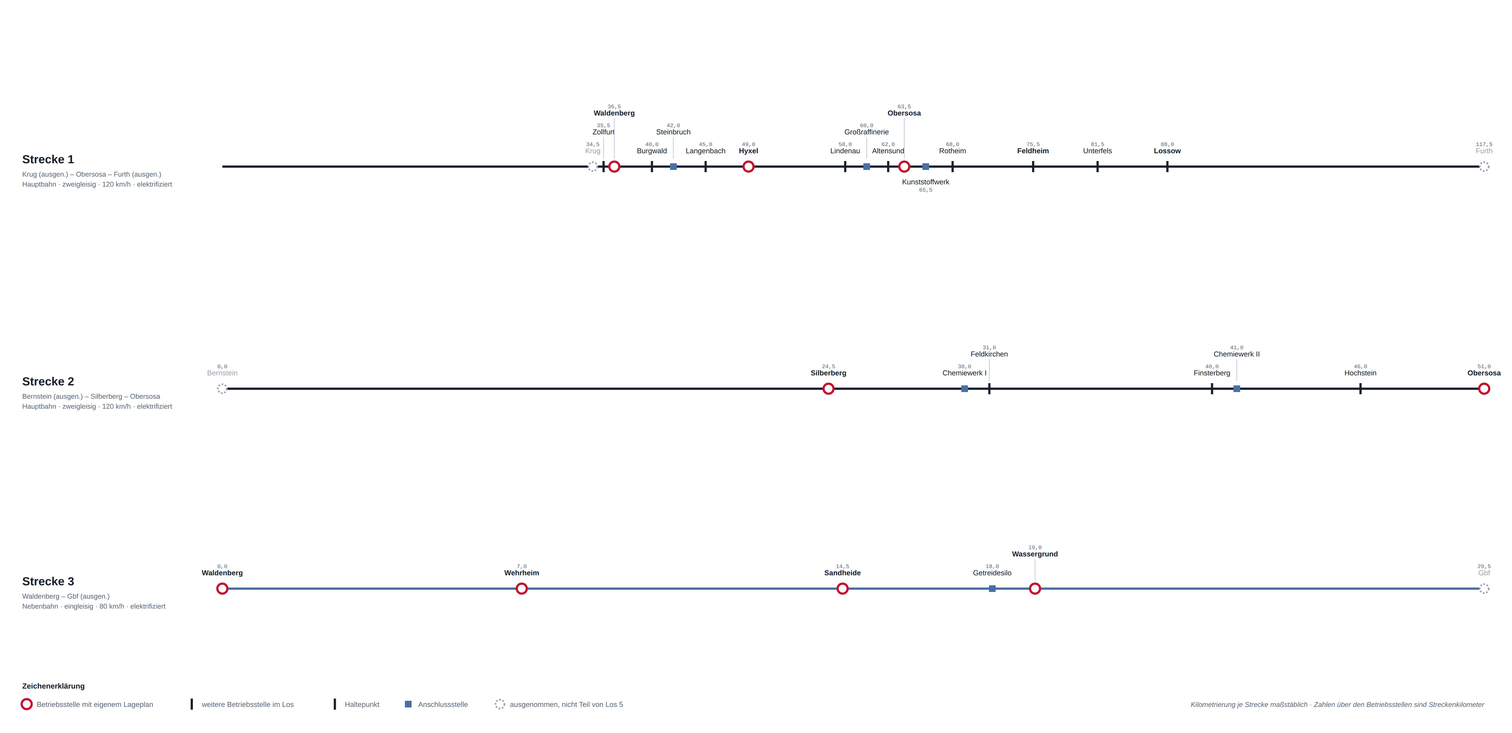
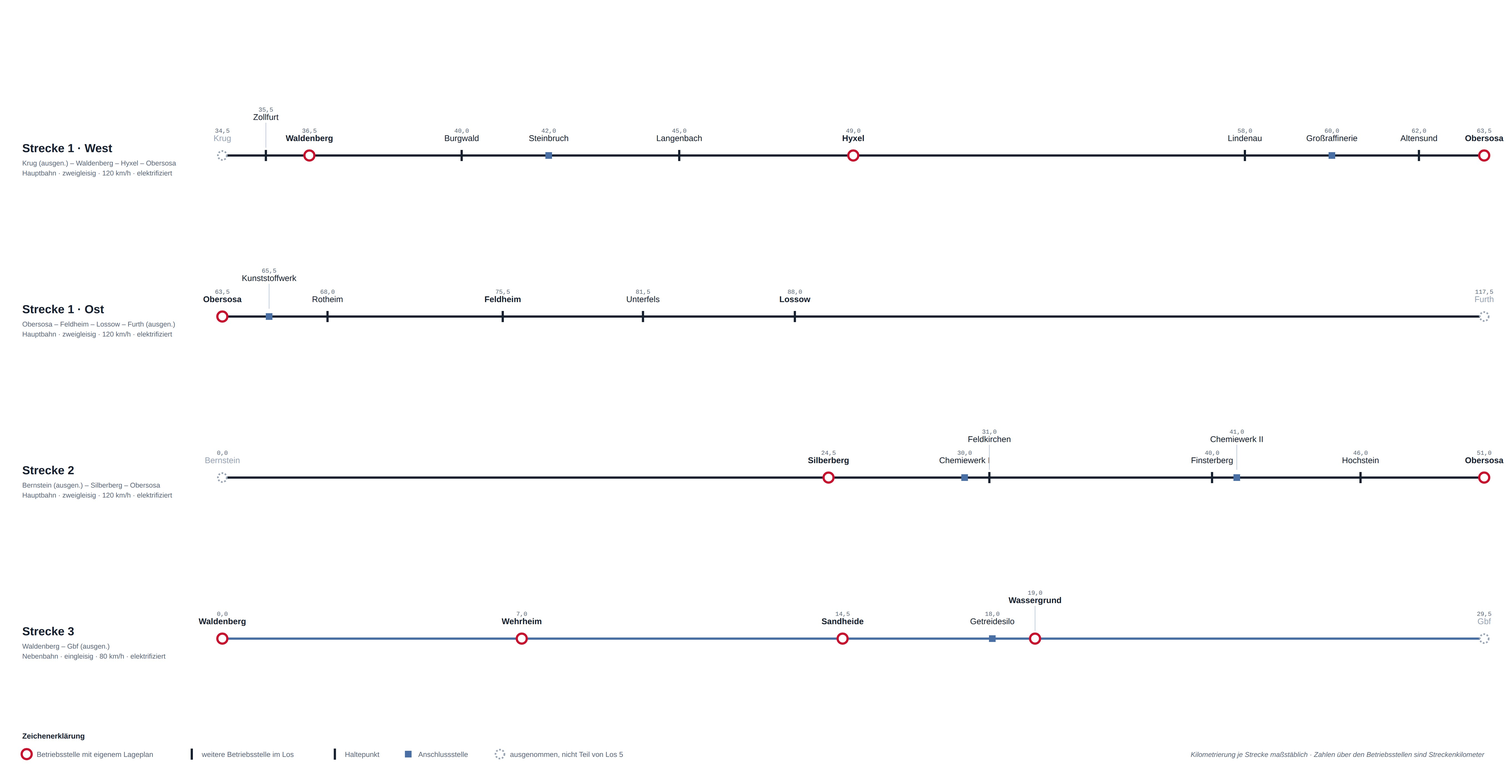
Gleisband: Strecke 1 in zwei Abschnitte geteilt, Beschriftung vergrößert
Alle drei Strecken auf dieselbe Blattbreite zu legen hat Strecke 1
gestaucht: 83 Kilometer gegen 29,5 bei Strecke 3. Die Betriebsstellen
um Krug, Zollfurt und Waldenberg standen dadurch einen Kilometer, also
gut zwanzig Pixel, auseinander.

Strecke 1 ist deshalb an ihrem Knoten Obersosa in einen West- und einen
Ostabschnitt geteilt. Damit verdoppelt sich ihr Maßstab, und jeder
Abschnitt hat eine mit den anderen Strecken vergleichbare Dichte.
Schriftgrößen und Spurabstände sind angehoben, die vertikalen Abstände
dafür zusammengezogen.

Claude-Session: https://claude.ai/code/session_01946ufwtxKyfXxUR2Dq2NLD

diff --git a/gleisband-los5.html b/gleisband-los5.html
@@ -13,130 +13,133 @@
   footer { margin-top:28px; color:#5C6879; font-size:12.5px; }
 </style></head><body><div class="wrap">
 <h1>Gleisband Los 5 – Chemiezentrum</h1>
-<p class="sub">Übersichtsdarstellung der drei Strecken mit Kilometrierung ·
+<p class="sub">Übersichtsdarstellung der drei Strecken mit Kilometrierung · Strecke 1 in zwei Abschnitten ·
 LF 2 Jahresprojekt 2026 „Mitteltrasse", 5. Teilabschnitt</p>
-<div class="scroll"><svg id="gleisband" width="2720" height="1320" viewBox="0 0 2720 1320" xmlns="http://www.w3.org/2000/svg" font-family="Calibri, Arial, sans-serif"><rect width="2720" height="1320" fill="#fff"/><text x="40" y="294" font-size="21" font-weight="700" fill="#16202E">Strecke 1</text>
-<line x1="400" y1="300" x2="2670" y2="300" stroke="#16202E" stroke-width="4"/>
-<text x="40" y="318" font-size="12.5" fill="#5C6879">Krug (ausgen.) – Obersosa – Furth (ausgen.)</text>
-<text x="40" y="336" font-size="12.5" fill="#5C6879">Hauptbahn · zweigleisig · 120 km/h · elektrifiziert</text>
-<circle cx="1066.5" cy="300" r="8" fill="#fff" stroke="#98A4B4" stroke-width="3" stroke-dasharray="3,3"/>
-<text x="1066.5" y="276" font-size="13" font-weight="400" fill="#98A4B4" text-anchor="middle">Krug</text>
-<text x="1066.5" y="263" font-size="10" fill="#5C6879" text-anchor="middle" font-family="Courier New, monospace">34,5</text>
-<line x1="1085.8" y1="290" x2="1085.8" y2="310" stroke="#16202E" stroke-width="4"/>
-<line x1="1085.8" y1="286" x2="1085.8" y2="247" stroke="#C9D2DE" stroke-width="1.5"/>
-<text x="1085.8" y="242" font-size="13" font-weight="400" fill="#16202E" text-anchor="middle">Zollfurt</text>
-<text x="1085.8" y="229" font-size="10" fill="#5C6879" text-anchor="middle" font-family="Courier New, monospace">35,5</text>
-<circle cx="1105.1" cy="300" r="9" fill="#fff" stroke="#C8102E" stroke-width="4"/>
-<line x1="1105.1" y1="286" x2="1105.1" y2="213" stroke="#C9D2DE" stroke-width="1.5"/>
-<text x="1105.1" y="208" font-size="13" font-weight="700" fill="#16202E" text-anchor="middle">Waldenberg</text>
-<text x="1105.1" y="195" font-size="10" fill="#5C6879" text-anchor="middle" font-family="Courier New, monospace">36,5</text>
-<line x1="1172.8" y1="290" x2="1172.8" y2="310" stroke="#16202E" stroke-width="4"/>
-<text x="1172.8" y="276" font-size="13" font-weight="400" fill="#16202E" text-anchor="middle">Burgwald</text>
-<text x="1172.8" y="263" font-size="10" fill="#5C6879" text-anchor="middle" font-family="Courier New, monospace">40,0</text>
-<rect x="1205.4" y="294" width="12" height="12" fill="#4A6FA5"/>
-<line x1="1211.4" y1="286" x2="1211.4" y2="247" stroke="#C9D2DE" stroke-width="1.5"/>
-<text x="1211.4" y="242" font-size="13" font-weight="400" fill="#16202E" text-anchor="middle">Steinbruch</text>
-<text x="1211.4" y="229" font-size="10" fill="#5C6879" text-anchor="middle" font-family="Courier New, monospace">42,0</text>
-<line x1="1269.4" y1="290" x2="1269.4" y2="310" stroke="#16202E" stroke-width="4"/>
-<text x="1269.4" y="276" font-size="13" font-weight="400" fill="#16202E" text-anchor="middle">Langenbach</text>
-<text x="1269.4" y="263" font-size="10" fill="#5C6879" text-anchor="middle" font-family="Courier New, monospace">45,0</text>
-<circle cx="1346.6" cy="300" r="9" fill="#fff" stroke="#C8102E" stroke-width="4"/>
-<text x="1346.6" y="276" font-size="13" font-weight="700" fill="#16202E" text-anchor="middle">Hyxel</text>
-<text x="1346.6" y="263" font-size="10" fill="#5C6879" text-anchor="middle" font-family="Courier New, monospace">49,0</text>
-<line x1="1520.5" y1="290" x2="1520.5" y2="310" stroke="#16202E" stroke-width="4"/>
-<text x="1520.5" y="276" font-size="13" font-weight="400" fill="#16202E" text-anchor="middle">Lindenau</text>
-<text x="1520.5" y="263" font-size="10" fill="#5C6879" text-anchor="middle" font-family="Courier New, monospace">58,0</text>
-<rect x="1553.1" y="294" width="12" height="12" fill="#4A6FA5"/>
-<line x1="1559.1" y1="286" x2="1559.1" y2="247" stroke="#C9D2DE" stroke-width="1.5"/>
-<text x="1559.1" y="242" font-size="13" font-weight="400" fill="#16202E" text-anchor="middle">Großraffinerie</text>
-<text x="1559.1" y="229" font-size="10" fill="#5C6879" text-anchor="middle" font-family="Courier New, monospace">60,0</text>
-<line x1="1597.8" y1="290" x2="1597.8" y2="310" stroke="#16202E" stroke-width="4"/>
-<text x="1597.8" y="276" font-size="13" font-weight="400" fill="#16202E" text-anchor="middle">Altensund</text>
-<text x="1597.8" y="263" font-size="10" fill="#5C6879" text-anchor="middle" font-family="Courier New, monospace">62,0</text>
-<circle cx="1626.8" cy="300" r="9" fill="#fff" stroke="#C8102E" stroke-width="4"/>
-<line x1="1626.8" y1="286" x2="1626.8" y2="213" stroke="#C9D2DE" stroke-width="1.5"/>
-<text x="1626.8" y="208" font-size="13" font-weight="700" fill="#16202E" text-anchor="middle">Obersosa</text>
-<text x="1626.8" y="195" font-size="10" fill="#5C6879" text-anchor="middle" font-family="Courier New, monospace">63,5</text>
-<rect x="1659.4" y="294" width="12" height="12" fill="#4A6FA5"/>
-<text x="1665.4" y="332" font-size="13" font-weight="400" fill="#16202E" text-anchor="middle">Kunststoffwerk</text>
-<text x="1665.4" y="345" font-size="10" fill="#5C6879" text-anchor="middle" font-family="Courier New, monospace">65,5</text>
-<line x1="1713.7" y1="290" x2="1713.7" y2="310" stroke="#16202E" stroke-width="4"/>
-<text x="1713.7" y="276" font-size="13" font-weight="400" fill="#16202E" text-anchor="middle">Rotheim</text>
-<text x="1713.7" y="263" font-size="10" fill="#5C6879" text-anchor="middle" font-family="Courier New, monospace">68,0</text>
-<line x1="1858.6" y1="290" x2="1858.6" y2="310" stroke="#16202E" stroke-width="4"/>
-<text x="1858.6" y="276" font-size="13" font-weight="700" fill="#16202E" text-anchor="middle">Feldheim</text>
-<text x="1858.6" y="263" font-size="10" fill="#5C6879" text-anchor="middle" font-family="Courier New, monospace">75,5</text>
-<line x1="1974.5" y1="290" x2="1974.5" y2="310" stroke="#16202E" stroke-width="4"/>
-<text x="1974.5" y="276" font-size="13" font-weight="400" fill="#16202E" text-anchor="middle">Unterfels</text>
-<text x="1974.5" y="263" font-size="10" fill="#5C6879" text-anchor="middle" font-family="Courier New, monospace">81,5</text>
-<line x1="2100.1" y1="290" x2="2100.1" y2="310" stroke="#16202E" stroke-width="4"/>
-<text x="2100.1" y="276" font-size="13" font-weight="700" fill="#16202E" text-anchor="middle">Lossow</text>
-<text x="2100.1" y="263" font-size="10" fill="#5C6879" text-anchor="middle" font-family="Courier New, monospace">88,0</text>
-<circle cx="2670.0" cy="300" r="8" fill="#fff" stroke="#98A4B4" stroke-width="3" stroke-dasharray="3,3"/>
-<text x="2670.0" y="276" font-size="13" font-weight="400" fill="#98A4B4" text-anchor="middle">Furth</text>
-<text x="2670.0" y="263" font-size="10" fill="#5C6879" text-anchor="middle" font-family="Courier New, monospace">117,5</text><text x="40" y="694" font-size="21" font-weight="700" fill="#16202E">Strecke 2</text>
-<line x1="400" y1="700" x2="2670" y2="700" stroke="#16202E" stroke-width="4"/>
-<text x="40" y="718" font-size="12.5" fill="#5C6879">Bernstein (ausgen.) – Silberberg – Obersosa</text>
-<text x="40" y="736" font-size="12.5" fill="#5C6879">Hauptbahn · zweigleisig · 120 km/h · elektrifiziert</text>
-<circle cx="400.0" cy="700" r="8" fill="#fff" stroke="#98A4B4" stroke-width="3" stroke-dasharray="3,3"/>
-<text x="400.0" y="676" font-size="13" font-weight="400" fill="#98A4B4" text-anchor="middle">Bernstein</text>
-<text x="400.0" y="663" font-size="10" fill="#5C6879" text-anchor="middle" font-family="Courier New, monospace">0,0</text>
-<circle cx="1490.5" cy="700" r="9" fill="#fff" stroke="#C8102E" stroke-width="4"/>
-<text x="1490.5" y="676" font-size="13" font-weight="700" fill="#16202E" text-anchor="middle">Silberberg</text>
-<text x="1490.5" y="663" font-size="10" fill="#5C6879" text-anchor="middle" font-family="Courier New, monospace">24,5</text>
-<rect x="1729.3" y="694" width="12" height="12" fill="#4A6FA5"/>
-<text x="1735.3" y="676" font-size="13" font-weight="400" fill="#16202E" text-anchor="middle">Chemiewerk I</text>
-<text x="1735.3" y="663" font-size="10" fill="#5C6879" text-anchor="middle" font-family="Courier New, monospace">30,0</text>
-<line x1="1779.8" y1="690" x2="1779.8" y2="710" stroke="#16202E" stroke-width="4"/>
-<line x1="1779.8" y1="686" x2="1779.8" y2="647" stroke="#C9D2DE" stroke-width="1.5"/>
-<text x="1779.8" y="642" font-size="13" font-weight="400" fill="#16202E" text-anchor="middle">Feldkirchen</text>
-<text x="1779.8" y="629" font-size="10" fill="#5C6879" text-anchor="middle" font-family="Courier New, monospace">31,0</text>
-<line x1="2180.4" y1="690" x2="2180.4" y2="710" stroke="#16202E" stroke-width="4"/>
-<text x="2180.4" y="676" font-size="13" font-weight="400" fill="#16202E" text-anchor="middle">Finsterberg</text>
-<text x="2180.4" y="663" font-size="10" fill="#5C6879" text-anchor="middle" font-family="Courier New, monospace">40,0</text>
-<rect x="2218.9" y="694" width="12" height="12" fill="#4A6FA5"/>
-<line x1="2224.9" y1="686" x2="2224.9" y2="647" stroke="#C9D2DE" stroke-width="1.5"/>
-<text x="2224.9" y="642" font-size="13" font-weight="400" fill="#16202E" text-anchor="middle">Chemiewerk II</text>
-<text x="2224.9" y="629" font-size="10" fill="#5C6879" text-anchor="middle" font-family="Courier New, monospace">41,0</text>
-<line x1="2447.5" y1="690" x2="2447.5" y2="710" stroke="#16202E" stroke-width="4"/>
-<text x="2447.5" y="676" font-size="13" font-weight="400" fill="#16202E" text-anchor="middle">Hochstein</text>
-<text x="2447.5" y="663" font-size="10" fill="#5C6879" text-anchor="middle" font-family="Courier New, monospace">46,0</text>
-<circle cx="2670.0" cy="700" r="9" fill="#fff" stroke="#C8102E" stroke-width="4"/>
-<text x="2670.0" y="676" font-size="13" font-weight="700" fill="#16202E" text-anchor="middle">Obersosa</text>
-<text x="2670.0" y="663" font-size="10" fill="#5C6879" text-anchor="middle" font-family="Courier New, monospace">51,0</text><text x="40" y="1054" font-size="21" font-weight="700" fill="#16202E">Strecke 3</text>
-<line x1="400" y1="1060" x2="2670" y2="1060" stroke="#4A6FA5" stroke-width="4"/>
-<text x="40" y="1078" font-size="12.5" fill="#5C6879">Waldenberg – Gbf (ausgen.)</text>
-<text x="40" y="1096" font-size="12.5" fill="#5C6879">Nebenbahn · eingleisig · 80 km/h · elektrifiziert</text>
-<circle cx="400.0" cy="1060" r="9" fill="#fff" stroke="#C8102E" stroke-width="4"/>
-<text x="400.0" y="1036" font-size="13" font-weight="700" fill="#16202E" text-anchor="middle">Waldenberg</text>
-<text x="400.0" y="1023" font-size="10" fill="#5C6879" text-anchor="middle" font-family="Courier New, monospace">0,0</text>
-<circle cx="938.6" cy="1060" r="9" fill="#fff" stroke="#C8102E" stroke-width="4"/>
-<text x="938.6" y="1036" font-size="13" font-weight="700" fill="#16202E" text-anchor="middle">Wehrheim</text>
-<text x="938.6" y="1023" font-size="10" fill="#5C6879" text-anchor="middle" font-family="Courier New, monospace">7,0</text>
-<circle cx="1515.8" cy="1060" r="9" fill="#fff" stroke="#C8102E" stroke-width="4"/>
-<text x="1515.8" y="1036" font-size="13" font-weight="700" fill="#16202E" text-anchor="middle">Sandheide</text>
-<text x="1515.8" y="1023" font-size="10" fill="#5C6879" text-anchor="middle" font-family="Courier New, monospace">14,5</text>
-<rect x="1779.1" y="1054" width="12" height="12" fill="#4A6FA5"/>
-<text x="1785.1" y="1036" font-size="13" font-weight="400" fill="#16202E" text-anchor="middle">Getreidesilo</text>
-<text x="1785.1" y="1023" font-size="10" fill="#5C6879" text-anchor="middle" font-family="Courier New, monospace">18,0</text>
-<circle cx="1862.0" cy="1060" r="9" fill="#fff" stroke="#C8102E" stroke-width="4"/>
-<line x1="1862.0" y1="1046" x2="1862.0" y2="1007" stroke="#C9D2DE" stroke-width="1.5"/>
-<text x="1862.0" y="1002" font-size="13" font-weight="700" fill="#16202E" text-anchor="middle">Wassergrund</text>
-<text x="1862.0" y="989" font-size="10" fill="#5C6879" text-anchor="middle" font-family="Courier New, monospace">19,0</text>
-<circle cx="2670.0" cy="1060" r="8" fill="#fff" stroke="#98A4B4" stroke-width="3" stroke-dasharray="3,3"/>
-<text x="2670.0" y="1036" font-size="13" font-weight="400" fill="#98A4B4" text-anchor="middle">Gbf</text>
-<text x="2670.0" y="1023" font-size="10" fill="#5C6879" text-anchor="middle" font-family="Courier New, monospace">29,5</text><text x="40" y="1240" font-size="13.5" font-weight="700" fill="#16202E">Zeichenerklärung</text>
-<circle cx="48" cy="1268" r="9" fill="#fff" stroke="#C8102E" stroke-width="4"/>
-<text x="66" y="1273" font-size="13" fill="#5C6879">Betriebsstelle mit eigenem Lageplan</text>
-<line x1="345.0" y1="1258" x2="345.0" y2="1278" stroke="#16202E" stroke-width="4"/>
-<text x="363.0" y="1273" font-size="13" fill="#5C6879">weitere Betriebsstelle im Los</text>
-<line x1="602.4" y1="1258" x2="602.4" y2="1278" stroke="#16202E" stroke-width="4"/>
-<text x="620.4" y="1273" font-size="13" fill="#5C6879">Haltepunkt</text>
-<rect x="728.4" y="1262" width="12" height="12" fill="#4A6FA5"/>
-<text x="752.4" y="1273" font-size="13" fill="#5C6879">Anschlussstelle</text>
-<circle cx="899.4" cy="1268" r="8" fill="#fff" stroke="#98A4B4" stroke-width="3" stroke-dasharray="3,3"/>
-<text x="917.4" y="1273" font-size="13" fill="#5C6879">ausgenommen, nicht Teil von Los 5</text>
-<text x="2670" y="1273" font-size="12.5" fill="#5C6879" font-style="italic" text-anchor="end">Kilometrierung je Strecke maßstäblich · Zahlen über den Betriebsstellen sind Streckenkilometer</text></svg></div>
+<div class="scroll"><svg id="gleisband" width="2720" height="1410" viewBox="0 0 2720 1410" xmlns="http://www.w3.org/2000/svg" font-family="Calibri, Arial, sans-serif"><rect width="2720" height="1410" fill="#fff"/><text x="40" y="274" font-size="21" font-weight="700" fill="#16202E">Strecke 1 · West</text>
+<line x1="400" y1="280" x2="2670" y2="280" stroke="#16202E" stroke-width="4"/>
+<text x="40" y="298" font-size="12.5" fill="#5C6879">Krug (ausgen.) – Waldenberg – Hyxel – Obersosa</text>
+<text x="40" y="316" font-size="12.5" fill="#5C6879">Hauptbahn · zweigleisig · 120 km/h · elektrifiziert</text>
+<circle cx="400.0" cy="280" r="8" fill="#fff" stroke="#98A4B4" stroke-width="3" stroke-dasharray="3,3"/>
+<text x="400.0" y="254" font-size="15" font-weight="400" fill="#98A4B4" text-anchor="middle">Krug</text>
+<text x="400.0" y="239" font-size="11" fill="#5C6879" text-anchor="middle" font-family="Courier New, monospace">34,5</text>
+<line x1="478.3" y1="270" x2="478.3" y2="290" stroke="#16202E" stroke-width="4"/>
+<line x1="478.3" y1="266" x2="478.3" y2="221" stroke="#C9D2DE" stroke-width="1.5"/>
+<text x="478.3" y="216" font-size="15" font-weight="400" fill="#16202E" text-anchor="middle">Zollfurt</text>
+<text x="478.3" y="201" font-size="11" fill="#5C6879" text-anchor="middle" font-family="Courier New, monospace">35,5</text>
+<circle cx="556.6" cy="280" r="9" fill="#fff" stroke="#C8102E" stroke-width="4"/>
+<text x="556.6" y="254" font-size="15" font-weight="700" fill="#16202E" text-anchor="middle">Waldenberg</text>
+<text x="556.6" y="239" font-size="11" fill="#5C6879" text-anchor="middle" font-family="Courier New, monospace">36,5</text>
+<line x1="830.5" y1="270" x2="830.5" y2="290" stroke="#16202E" stroke-width="4"/>
+<text x="830.5" y="254" font-size="15" font-weight="400" fill="#16202E" text-anchor="middle">Burgwald</text>
+<text x="830.5" y="239" font-size="11" fill="#5C6879" text-anchor="middle" font-family="Courier New, monospace">40,0</text>
+<rect x="981.1" y="274" width="12" height="12" fill="#4A6FA5"/>
+<text x="987.1" y="254" font-size="15" font-weight="400" fill="#16202E" text-anchor="middle">Steinbruch</text>
+<text x="987.1" y="239" font-size="11" fill="#5C6879" text-anchor="middle" font-family="Courier New, monospace">42,0</text>
+<line x1="1221.9" y1="270" x2="1221.9" y2="290" stroke="#16202E" stroke-width="4"/>
+<text x="1221.9" y="254" font-size="15" font-weight="400" fill="#16202E" text-anchor="middle">Langenbach</text>
+<text x="1221.9" y="239" font-size="11" fill="#5C6879" text-anchor="middle" font-family="Courier New, monospace">45,0</text>
+<circle cx="1535.0" cy="280" r="9" fill="#fff" stroke="#C8102E" stroke-width="4"/>
+<text x="1535.0" y="254" font-size="15" font-weight="700" fill="#16202E" text-anchor="middle">Hyxel</text>
+<text x="1535.0" y="239" font-size="11" fill="#5C6879" text-anchor="middle" font-family="Courier New, monospace">49,0</text>
+<line x1="2239.5" y1="270" x2="2239.5" y2="290" stroke="#16202E" stroke-width="4"/>
+<text x="2239.5" y="254" font-size="15" font-weight="400" fill="#16202E" text-anchor="middle">Lindenau</text>
+<text x="2239.5" y="239" font-size="11" fill="#5C6879" text-anchor="middle" font-family="Courier New, monospace">58,0</text>
+<rect x="2390.0" y="274" width="12" height="12" fill="#4A6FA5"/>
+<text x="2396.0" y="254" font-size="15" font-weight="400" fill="#16202E" text-anchor="middle">Großraffinerie</text>
+<text x="2396.0" y="239" font-size="11" fill="#5C6879" text-anchor="middle" font-family="Courier New, monospace">60,0</text>
+<line x1="2552.6" y1="270" x2="2552.6" y2="290" stroke="#16202E" stroke-width="4"/>
+<text x="2552.6" y="254" font-size="15" font-weight="400" fill="#16202E" text-anchor="middle">Altensund</text>
+<text x="2552.6" y="239" font-size="11" fill="#5C6879" text-anchor="middle" font-family="Courier New, monospace">62,0</text>
+<circle cx="2670.0" cy="280" r="9" fill="#fff" stroke="#C8102E" stroke-width="4"/>
+<text x="2670.0" y="254" font-size="15" font-weight="700" fill="#16202E" text-anchor="middle">Obersosa</text>
+<text x="2670.0" y="239" font-size="11" fill="#5C6879" text-anchor="middle" font-family="Courier New, monospace">63,5</text><text x="40" y="564" font-size="21" font-weight="700" fill="#16202E">Strecke 1 · Ost</text>
+<line x1="400" y1="570" x2="2670" y2="570" stroke="#16202E" stroke-width="4"/>
+<text x="40" y="588" font-size="12.5" fill="#5C6879">Obersosa – Feldheim – Lossow – Furth (ausgen.)</text>
+<text x="40" y="606" font-size="12.5" fill="#5C6879">Hauptbahn · zweigleisig · 120 km/h · elektrifiziert</text>
+<circle cx="400.0" cy="570" r="9" fill="#fff" stroke="#C8102E" stroke-width="4"/>
+<text x="400.0" y="544" font-size="15" font-weight="700" fill="#16202E" text-anchor="middle">Obersosa</text>
+<text x="400.0" y="529" font-size="11" fill="#5C6879" text-anchor="middle" font-family="Courier New, monospace">63,5</text>
+<rect x="478.1" y="564" width="12" height="12" fill="#4A6FA5"/>
+<line x1="484.1" y1="556" x2="484.1" y2="511" stroke="#C9D2DE" stroke-width="1.5"/>
+<text x="484.1" y="506" font-size="15" font-weight="400" fill="#16202E" text-anchor="middle">Kunststoffwerk</text>
+<text x="484.1" y="491" font-size="11" fill="#5C6879" text-anchor="middle" font-family="Courier New, monospace">65,5</text>
+<line x1="589.2" y1="560" x2="589.2" y2="580" stroke="#16202E" stroke-width="4"/>
+<text x="589.2" y="544" font-size="15" font-weight="400" fill="#16202E" text-anchor="middle">Rotheim</text>
+<text x="589.2" y="529" font-size="11" fill="#5C6879" text-anchor="middle" font-family="Courier New, monospace">68,0</text>
+<line x1="904.4" y1="560" x2="904.4" y2="580" stroke="#16202E" stroke-width="4"/>
+<text x="904.4" y="544" font-size="15" font-weight="700" fill="#16202E" text-anchor="middle">Feldheim</text>
+<text x="904.4" y="529" font-size="11" fill="#5C6879" text-anchor="middle" font-family="Courier New, monospace">75,5</text>
+<line x1="1156.7" y1="560" x2="1156.7" y2="580" stroke="#16202E" stroke-width="4"/>
+<text x="1156.7" y="544" font-size="15" font-weight="400" fill="#16202E" text-anchor="middle">Unterfels</text>
+<text x="1156.7" y="529" font-size="11" fill="#5C6879" text-anchor="middle" font-family="Courier New, monospace">81,5</text>
+<line x1="1429.9" y1="560" x2="1429.9" y2="580" stroke="#16202E" stroke-width="4"/>
+<text x="1429.9" y="544" font-size="15" font-weight="700" fill="#16202E" text-anchor="middle">Lossow</text>
+<text x="1429.9" y="529" font-size="11" fill="#5C6879" text-anchor="middle" font-family="Courier New, monospace">88,0</text>
+<circle cx="2670.0" cy="570" r="8" fill="#fff" stroke="#98A4B4" stroke-width="3" stroke-dasharray="3,3"/>
+<text x="2670.0" y="544" font-size="15" font-weight="400" fill="#98A4B4" text-anchor="middle">Furth</text>
+<text x="2670.0" y="529" font-size="11" fill="#5C6879" text-anchor="middle" font-family="Courier New, monospace">117,5</text><text x="40" y="854" font-size="21" font-weight="700" fill="#16202E">Strecke 2</text>
+<line x1="400" y1="860" x2="2670" y2="860" stroke="#16202E" stroke-width="4"/>
+<text x="40" y="878" font-size="12.5" fill="#5C6879">Bernstein (ausgen.) – Silberberg – Obersosa</text>
+<text x="40" y="896" font-size="12.5" fill="#5C6879">Hauptbahn · zweigleisig · 120 km/h · elektrifiziert</text>
+<circle cx="400.0" cy="860" r="8" fill="#fff" stroke="#98A4B4" stroke-width="3" stroke-dasharray="3,3"/>
+<text x="400.0" y="834" font-size="15" font-weight="400" fill="#98A4B4" text-anchor="middle">Bernstein</text>
+<text x="400.0" y="819" font-size="11" fill="#5C6879" text-anchor="middle" font-family="Courier New, monospace">0,0</text>
+<circle cx="1490.5" cy="860" r="9" fill="#fff" stroke="#C8102E" stroke-width="4"/>
+<text x="1490.5" y="834" font-size="15" font-weight="700" fill="#16202E" text-anchor="middle">Silberberg</text>
+<text x="1490.5" y="819" font-size="11" fill="#5C6879" text-anchor="middle" font-family="Courier New, monospace">24,5</text>
+<rect x="1729.3" y="854" width="12" height="12" fill="#4A6FA5"/>
+<text x="1735.3" y="834" font-size="15" font-weight="400" fill="#16202E" text-anchor="middle">Chemiewerk I</text>
+<text x="1735.3" y="819" font-size="11" fill="#5C6879" text-anchor="middle" font-family="Courier New, monospace">30,0</text>
+<line x1="1779.8" y1="850" x2="1779.8" y2="870" stroke="#16202E" stroke-width="4"/>
+<line x1="1779.8" y1="846" x2="1779.8" y2="801" stroke="#C9D2DE" stroke-width="1.5"/>
+<text x="1779.8" y="796" font-size="15" font-weight="400" fill="#16202E" text-anchor="middle">Feldkirchen</text>
+<text x="1779.8" y="781" font-size="11" fill="#5C6879" text-anchor="middle" font-family="Courier New, monospace">31,0</text>
+<line x1="2180.4" y1="850" x2="2180.4" y2="870" stroke="#16202E" stroke-width="4"/>
+<text x="2180.4" y="834" font-size="15" font-weight="400" fill="#16202E" text-anchor="middle">Finsterberg</text>
+<text x="2180.4" y="819" font-size="11" fill="#5C6879" text-anchor="middle" font-family="Courier New, monospace">40,0</text>
+<rect x="2218.9" y="854" width="12" height="12" fill="#4A6FA5"/>
+<line x1="2224.9" y1="846" x2="2224.9" y2="801" stroke="#C9D2DE" stroke-width="1.5"/>
+<text x="2224.9" y="796" font-size="15" font-weight="400" fill="#16202E" text-anchor="middle">Chemiewerk II</text>
+<text x="2224.9" y="781" font-size="11" fill="#5C6879" text-anchor="middle" font-family="Courier New, monospace">41,0</text>
+<line x1="2447.5" y1="850" x2="2447.5" y2="870" stroke="#16202E" stroke-width="4"/>
+<text x="2447.5" y="834" font-size="15" font-weight="400" fill="#16202E" text-anchor="middle">Hochstein</text>
+<text x="2447.5" y="819" font-size="11" fill="#5C6879" text-anchor="middle" font-family="Courier New, monospace">46,0</text>
+<circle cx="2670.0" cy="860" r="9" fill="#fff" stroke="#C8102E" stroke-width="4"/>
+<text x="2670.0" y="834" font-size="15" font-weight="700" fill="#16202E" text-anchor="middle">Obersosa</text>
+<text x="2670.0" y="819" font-size="11" fill="#5C6879" text-anchor="middle" font-family="Courier New, monospace">51,0</text><text x="40" y="1144" font-size="21" font-weight="700" fill="#16202E">Strecke 3</text>
+<line x1="400" y1="1150" x2="2670" y2="1150" stroke="#4A6FA5" stroke-width="4"/>
+<text x="40" y="1168" font-size="12.5" fill="#5C6879">Waldenberg – Gbf (ausgen.)</text>
+<text x="40" y="1186" font-size="12.5" fill="#5C6879">Nebenbahn · eingleisig · 80 km/h · elektrifiziert</text>
+<circle cx="400.0" cy="1150" r="9" fill="#fff" stroke="#C8102E" stroke-width="4"/>
+<text x="400.0" y="1124" font-size="15" font-weight="700" fill="#16202E" text-anchor="middle">Waldenberg</text>
+<text x="400.0" y="1109" font-size="11" fill="#5C6879" text-anchor="middle" font-family="Courier New, monospace">0,0</text>
+<circle cx="938.6" cy="1150" r="9" fill="#fff" stroke="#C8102E" stroke-width="4"/>
+<text x="938.6" y="1124" font-size="15" font-weight="700" fill="#16202E" text-anchor="middle">Wehrheim</text>
+<text x="938.6" y="1109" font-size="11" fill="#5C6879" text-anchor="middle" font-family="Courier New, monospace">7,0</text>
+<circle cx="1515.8" cy="1150" r="9" fill="#fff" stroke="#C8102E" stroke-width="4"/>
+<text x="1515.8" y="1124" font-size="15" font-weight="700" fill="#16202E" text-anchor="middle">Sandheide</text>
+<text x="1515.8" y="1109" font-size="11" fill="#5C6879" text-anchor="middle" font-family="Courier New, monospace">14,5</text>
+<rect x="1779.1" y="1144" width="12" height="12" fill="#4A6FA5"/>
+<text x="1785.1" y="1124" font-size="15" font-weight="400" fill="#16202E" text-anchor="middle">Getreidesilo</text>
+<text x="1785.1" y="1109" font-size="11" fill="#5C6879" text-anchor="middle" font-family="Courier New, monospace">18,0</text>
+<circle cx="1862.0" cy="1150" r="9" fill="#fff" stroke="#C8102E" stroke-width="4"/>
+<line x1="1862.0" y1="1136" x2="1862.0" y2="1091" stroke="#C9D2DE" stroke-width="1.5"/>
+<text x="1862.0" y="1086" font-size="15" font-weight="700" fill="#16202E" text-anchor="middle">Wassergrund</text>
+<text x="1862.0" y="1071" font-size="11" fill="#5C6879" text-anchor="middle" font-family="Courier New, monospace">19,0</text>
+<circle cx="2670.0" cy="1150" r="8" fill="#fff" stroke="#98A4B4" stroke-width="3" stroke-dasharray="3,3"/>
+<text x="2670.0" y="1124" font-size="15" font-weight="400" fill="#98A4B4" text-anchor="middle">Gbf</text>
+<text x="2670.0" y="1109" font-size="11" fill="#5C6879" text-anchor="middle" font-family="Courier New, monospace">29,5</text><text x="40" y="1330" font-size="13.5" font-weight="700" fill="#16202E">Zeichenerklärung</text>
+<circle cx="48" cy="1358" r="9" fill="#fff" stroke="#C8102E" stroke-width="4"/>
+<text x="66" y="1363" font-size="13" fill="#5C6879">Betriebsstelle mit eigenem Lageplan</text>
+<line x1="345.0" y1="1348" x2="345.0" y2="1368" stroke="#16202E" stroke-width="4"/>
+<text x="363.0" y="1363" font-size="13" fill="#5C6879">weitere Betriebsstelle im Los</text>
+<line x1="602.4" y1="1348" x2="602.4" y2="1368" stroke="#16202E" stroke-width="4"/>
+<text x="620.4" y="1363" font-size="13" fill="#5C6879">Haltepunkt</text>
+<rect x="728.4" y="1352" width="12" height="12" fill="#4A6FA5"/>
+<text x="752.4" y="1363" font-size="13" fill="#5C6879">Anschlussstelle</text>
+<circle cx="899.4" cy="1358" r="8" fill="#fff" stroke="#98A4B4" stroke-width="3" stroke-dasharray="3,3"/>
+<text x="917.4" y="1363" font-size="13" fill="#5C6879">ausgenommen, nicht Teil von Los 5</text>
+<text x="2670" y="1363" font-size="12.5" fill="#5C6879" font-style="italic" text-anchor="end">Kilometrierung je Strecke maßstäblich · Zahlen über den Betriebsstellen sind Streckenkilometer</text></svg></div>
 <footer>Kilometerangaben nach Aufgabenstellung; Zwischenbetriebsstellen nach den
 Fahrplandaten des Projekts.</footer>
 </div></body></html>

diff --git a/tools/gleisband.py b/tools/gleisband.py
@@ -39,23 +39,23 @@ W, X0, X1 = 2720, 400, 2670
 ROT, TIEF, STAHL, GRAU, SOFT = "#C8102E", "#16202E", "#4A6FA5", "#98A4B4", "#5C6879"
 FARBE = {"bf": ROT, "bst": TIEF, "hp": TIEF, "anst": STAHL, "ausgen": GRAU}
 # Beschriftungsspuren: drei ueber, drei unter dem Gleisband
-SPUREN = [(-24, -37), (-58, -71), (-92, -105),
-          (32, 45), (66, 79), (100, 113)]
+SPUREN = [(-26, -41), (-64, -79), (-102, -117),
+          (34, 49), (72, 87), (110, 125)]
 
 
 def km_text(km):
     return ("%.1f" % km).replace(".", ",")
 
 
-def band(y, nummer, strecke, angabe, stationen, kmax, linienfarbe):
+def band(y, nummer, strecke, angabe, stationen, kmin, kmax, linienfarbe):
     o = [f'<text x="40" y="{y-6}" font-size="21" font-weight="700" fill="{TIEF}">{nummer}</text>',
          f'<line x1="{X0}" y1="{y}" x2="{X1}" y2="{y}" stroke="{linienfarbe}" stroke-width="4"/>',
          f'<text x="40" y="{y+18}" font-size="12.5" fill="{SOFT}">{strecke}</text>',
          f'<text x="40" y="{y+36}" font-size="12.5" fill="{SOFT}">{angabe}</text>']
     belegt = [-1e9] * len(SPUREN)
     for name, km, art in stationen:
-        x = X0 + (X1 - X0) * km / kmax
-        breite = max(len(name) * 7.2, 46) + 12
+        x = X0 + (X1 - X0) * (km - kmin) / (kmax - kmin)
+        breite = max(len(name) * 8.2, 54) + 14
         spur = 0
         for i in range(len(SPUREN)):
             if x - belegt[i] >= breite:
@@ -73,15 +73,15 @@ def band(y, nummer, strecke, angabe, stationen, kmax, linienfarbe):
         else:
             o.append(f'<circle cx="{x:.1f}" cy="{y}" r="8" fill="#fff" stroke="{c}" '
                      f'stroke-width="3" stroke-dasharray="3,3"/>')
-        if abs(dy_name) > 34:          # zweite und dritte Spur brauchen eine Fuehrungslinie
+        if abs(dy_name) > 36:          # zweite und dritte Spur brauchen eine Fuehrungslinie
             y1 = y + (14 if dy_name > 0 else -14)
             y2 = y + (dy_name - 11 if dy_name > 0 else dy_name + 5)
             o.append(f'<line x1="{x:.1f}" y1="{y1}" x2="{x:.1f}" y2="{y2}" stroke="#C9D2DE" stroke-width="1.5"/>')
         fett = "700" if art in ("bf", "bst") else "400"
         farbe_txt = TIEF if art != "ausgen" else GRAU
-        o.append(f'<text x="{x:.1f}" y="{y+dy_name}" font-size="13" font-weight="{fett}" '
+        o.append(f'<text x="{x:.1f}" y="{y+dy_name}" font-size="15" font-weight="{fett}" '
                  f'fill="{farbe_txt}" text-anchor="middle">{name}</text>')
-        o.append(f'<text x="{x:.1f}" y="{y+dy_km}" font-size="10" fill="{SOFT}" text-anchor="middle" '
+        o.append(f'<text x="{x:.1f}" y="{y+dy_km}" font-size="11" fill="{SOFT}" text-anchor="middle" '
                  f'font-family="Courier New, monospace">{km_text(km)}</text>')
     return "\n".join(o)
 
@@ -111,18 +111,22 @@ def legende(y):
 
 
 def build():
+    s1_west = [z for z in STRECKE_1 if z[1] <= 63.5]
+    s1_ost = [z for z in STRECKE_1 if z[1] >= 63.5]
     teile = [
-        band(300, "Strecke 1", "Krug (ausgen.) – Obersosa – Furth (ausgen.)",
-             "Hauptbahn · zweigleisig · 120 km/h · elektrifiziert", STRECKE_1, 117.5, TIEF),
-        band(700, "Strecke 2", "Bernstein (ausgen.) – Silberberg – Obersosa",
-             "Hauptbahn · zweigleisig · 120 km/h · elektrifiziert", STRECKE_2, 51.0, TIEF),
-        band(1060, "Strecke 3", "Waldenberg – Gbf (ausgen.)",
-             "Nebenbahn · eingleisig · 80 km/h · elektrifiziert", STRECKE_3, 29.5, STAHL),
-        legende(1240),
+        band(280, "Strecke 1 · West", "Krug (ausgen.) – Waldenberg – Hyxel – Obersosa",
+             "Hauptbahn · zweigleisig · 120 km/h · elektrifiziert", s1_west, 34.5, 63.5, TIEF),
+        band(570, "Strecke 1 · Ost", "Obersosa – Feldheim – Lossow – Furth (ausgen.)",
+             "Hauptbahn · zweigleisig · 120 km/h · elektrifiziert", s1_ost, 63.5, 117.5, TIEF),
+        band(860, "Strecke 2", "Bernstein (ausgen.) – Silberberg – Obersosa",
+             "Hauptbahn · zweigleisig · 120 km/h · elektrifiziert", STRECKE_2, 0.0, 51.0, TIEF),
+        band(1150, "Strecke 3", "Waldenberg – Gbf (ausgen.)",
+             "Nebenbahn · eingleisig · 80 km/h · elektrifiziert", STRECKE_3, 0.0, 29.5, STAHL),
+        legende(1330),
     ]
-    return (f'<svg id="gleisband" width="{W}" height="1320" viewBox="0 0 {W} 1320" '
+    return (f'<svg id="gleisband" width="{W}" height="1410" viewBox="0 0 {W} 1410" '
             f'xmlns="http://www.w3.org/2000/svg" font-family="Calibri, Arial, sans-serif">'
-            f'<rect width="{W}" height="1320" fill="#fff"/>{"".join(teile)}</svg>')
+            f'<rect width="{W}" height="1410" fill="#fff"/>{"".join(teile)}</svg>')
 
 
 SEITE = """<!DOCTYPE html>
@@ -140,7 +144,7 @@ SEITE = """<!DOCTYPE html>
   footer {{ margin-top:28px; color:#5C6879; font-size:12.5px; }}
 </style></head><body><div class="wrap">
 <h1>Gleisband Los 5 – Chemiezentrum</h1>
-<p class="sub">Übersichtsdarstellung der drei Strecken mit Kilometrierung ·
+<p class="sub">Übersichtsdarstellung der drei Strecken mit Kilometrierung · Strecke 1 in zwei Abschnitten ·
 LF 2 Jahresprojekt 2026 „Mitteltrasse", 5. Teilabschnitt</p>
 <div class="scroll">{svg}</div>
 <footer>Kilometerangaben nach Aufgabenstellung; Zwischenbetriebsstellen nach den
